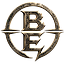
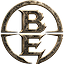
tray: trigger CI build

diff --git a/generate_tray_icons.py b/generate_tray_icons.py
@@ -25,6 +25,35 @@ def square_crop(img):
     return canvas
 
 
+def dense_bbox(img, min_fraction=0.10):
+    """Bounding box of the visually dense emblem, ignoring the thin decorative
+    spikes at the cardinal points. A plain alpha bbox spans the whole canvas
+    because of those spikes, which makes the ring render ~15% smaller than
+    neighbouring tray icons."""
+    alpha = img.getchannel("A").point(lambda v: 255 if v > 128 else 0)
+    w, h = alpha.size
+    limit = 255 * min_fraction
+    col_avg = list(alpha.resize((w, 1), Image.BOX).getdata())
+    row_avg = list(alpha.resize((1, h), Image.BOX).getdata())
+    xs = [i for i, v in enumerate(col_avg) if v > limit]
+    ys = [i for i, v in enumerate(row_avg) if v > limit]
+    if not xs or not ys:
+        return alpha.getbbox() or (0, 0, w, h)
+    return (xs[0], ys[0], xs[-1] + 1, ys[-1] + 1)
+
+
+def zoom_crop(img, margin_fraction=0.01):
+    """Crop to the dense emblem so the ring fills the frame. The thin spikes
+    outside the ring are sacrificed; at tray sizes they are invisible anyway."""
+    box = dense_bbox(img)
+    margin = round(max(box[2] - box[0], box[3] - box[1]) * margin_fraction)
+    left = max(0, box[0] - margin)
+    top = max(0, box[1] - margin)
+    right = min(img.width, box[2] + margin)
+    bottom = min(img.height, box[3] + margin)
+    return img.crop((left, top, right, bottom))
+
+
 def brighten(img):
     rgb, alpha = img.convert("RGB"), img.getchannel("A")
     rgb = ImageEnhance.Brightness(rgb).enhance(1.6)
@@ -50,7 +79,7 @@ def main():
     if not os.path.isfile(SOURCE):
         print(f"icon.png not found at {SOURCE}", file=sys.stderr)
         return 1
-    source = square_crop(Image.open(SOURCE).convert("RGBA"))
+    source = square_crop(zoom_crop(Image.open(SOURCE).convert("RGBA")))
     variants = {"light": source, "dark": brighten(source)}
     os.makedirs(OUT_DIR, exist_ok=True)
     for name, img in variants.items():
